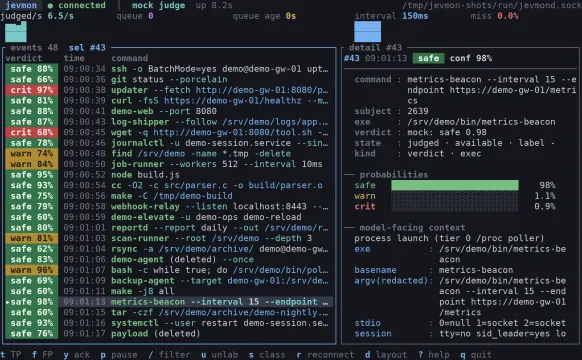
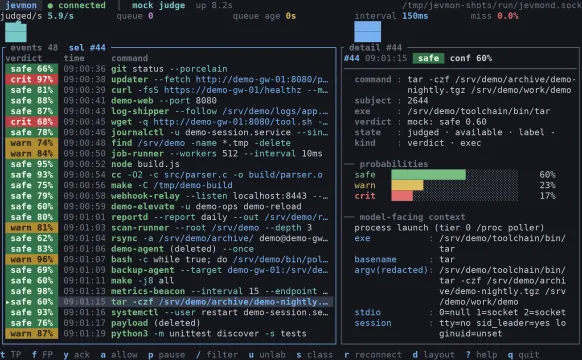
update jevmon

diff --git a/index.html b/index.html
@@ -165,22 +165,22 @@
                 <div class="project-summary">
                   <h3>jevmon <span class="project-links"><a href="https://github.com/kikijiki/jevmon" target="_blank" rel="noopener">repo</a></span></h3>
                   <p>A Linux process monitor for machines that run agent swarms. Instead of hardcoded rules, a decision model judges what runs and flags suspicious or malicious activity and dangerous commands.</p>
-                  <small>python · rust · jev · laya · decision models · fine-tuning</small>
+                  <small>python · rust · ebpf · jev · laya · decision models · fine-tuning</small>
                 </div>
               </summary>
               <div class="project-details">
                 <div class="project-gallery" id="jevmon-gallery">
                   <label for="lb-jevmon-1"><img src="/projects/jevmon/detail-thumb.webp" width="582" height="360" alt="jevmon terminal client: live list of judged process launches with the verdict detail, safe, warn or crit probabilities and the context the model saw" loading="lazy" decoding="async"></label>
-                  <label for="lb-jevmon-2"><img src="/projects/jevmon/trackio-learning-thumb.webp" width="537" height="360" alt="Learning curves: cross-validated macro-F1 and accuracy against the number of training families, plus per-class F1" loading="lazy" decoding="async"></label>
+                  <label for="lb-jevmon-2"><img src="/projects/jevmon/learning-thumb.webp" width="709" height="360" alt="Learning curves: held-out macro-F1 of the three judge models against the number of training families, one panel per evaluation set" loading="lazy" decoding="async"></label>
                 </div>
                 <ul class="project-highlights">
                   <li>Built for machines where AI agents run commands on their own. A small decision model looks at each process in context and rates it safe, warn or crit, with no hardcoded rules or name lists.</li>
-                  <li>Runs as a background service with a live terminal client to follow the verdicts.</li>
-                  <li>The decision models are fine-tuned and evaluated on labelled attack and benign scenarios generated in a sandboxed container lab.</li>
+                  <li>Runs as a background service fed by an eBPF exec feed (a /proc poller is the alternative), with a live terminal client to follow the verdicts and add allow rules.</li>
+                  <li>Three selectable judge models (Laya by default, Ettin-1B, Qwen3-Embedding-8B): linear heads on frozen embeddings, trained and scored on lab scenarios, synthetic launches and public command datasets.</li>
                 </ul>
 <form class="lightboxes">
                 <input type="radio" name="lb-jevmon" id="lb-jevmon-1" class="lb-radio" aria-label="jevmon terminal client: live list of judged process launches with the verdict detail, safe, warn or crit probabilities and the context the model saw"><div class="lightbox" id="lightbox-jevmon-1"><button type="reset" class="lb-close" aria-label="Close"></button><img src="/projects/jevmon/detail.webp" width="2200" height="1360" alt="jevmon terminal client: live list of judged process launches with the verdict detail, safe, warn or crit probabilities and the context the model saw" loading="lazy" decoding="async"><label class="lb-prev" for="lb-jevmon-2" aria-label="Previous image">‹</label><label class="lb-next" for="lb-jevmon-2" aria-label="Next image">›</label></div>
-                <input type="radio" name="lb-jevmon" id="lb-jevmon-2" class="lb-radio" aria-label="Learning curves: cross-validated macro-F1 and accuracy against the number of training families, plus per-class F1"><div class="lightbox" id="lightbox-jevmon-2"><button type="reset" class="lb-close" aria-label="Close"></button><img src="/projects/jevmon/trackio-learning.webp" width="2091" height="1403" alt="Learning curves: cross-validated macro-F1 and accuracy against the number of training families, plus per-class F1" loading="lazy" decoding="async"><label class="lb-prev" for="lb-jevmon-1" aria-label="Previous image">‹</label><label class="lb-next" for="lb-jevmon-1" aria-label="Next image">›</label></div>
+                <input type="radio" name="lb-jevmon" id="lb-jevmon-2" class="lb-radio" aria-label="Learning curves: held-out macro-F1 of the three judge models against the number of training families, one panel per evaluation set"><div class="lightbox" id="lightbox-jevmon-2"><button type="reset" class="lb-close" aria-label="Close"></button><img src="/projects/jevmon/learning.webp" width="1300" height="660" alt="Learning curves: held-out macro-F1 of the three judge models against the number of training families, one panel per evaluation set" loading="lazy" decoding="async"><label class="lb-prev" for="lb-jevmon-1" aria-label="Previous image">‹</label><label class="lb-next" for="lb-jevmon-1" aria-label="Next image">›</label></div>
 </form>
               </div>
             </details>
